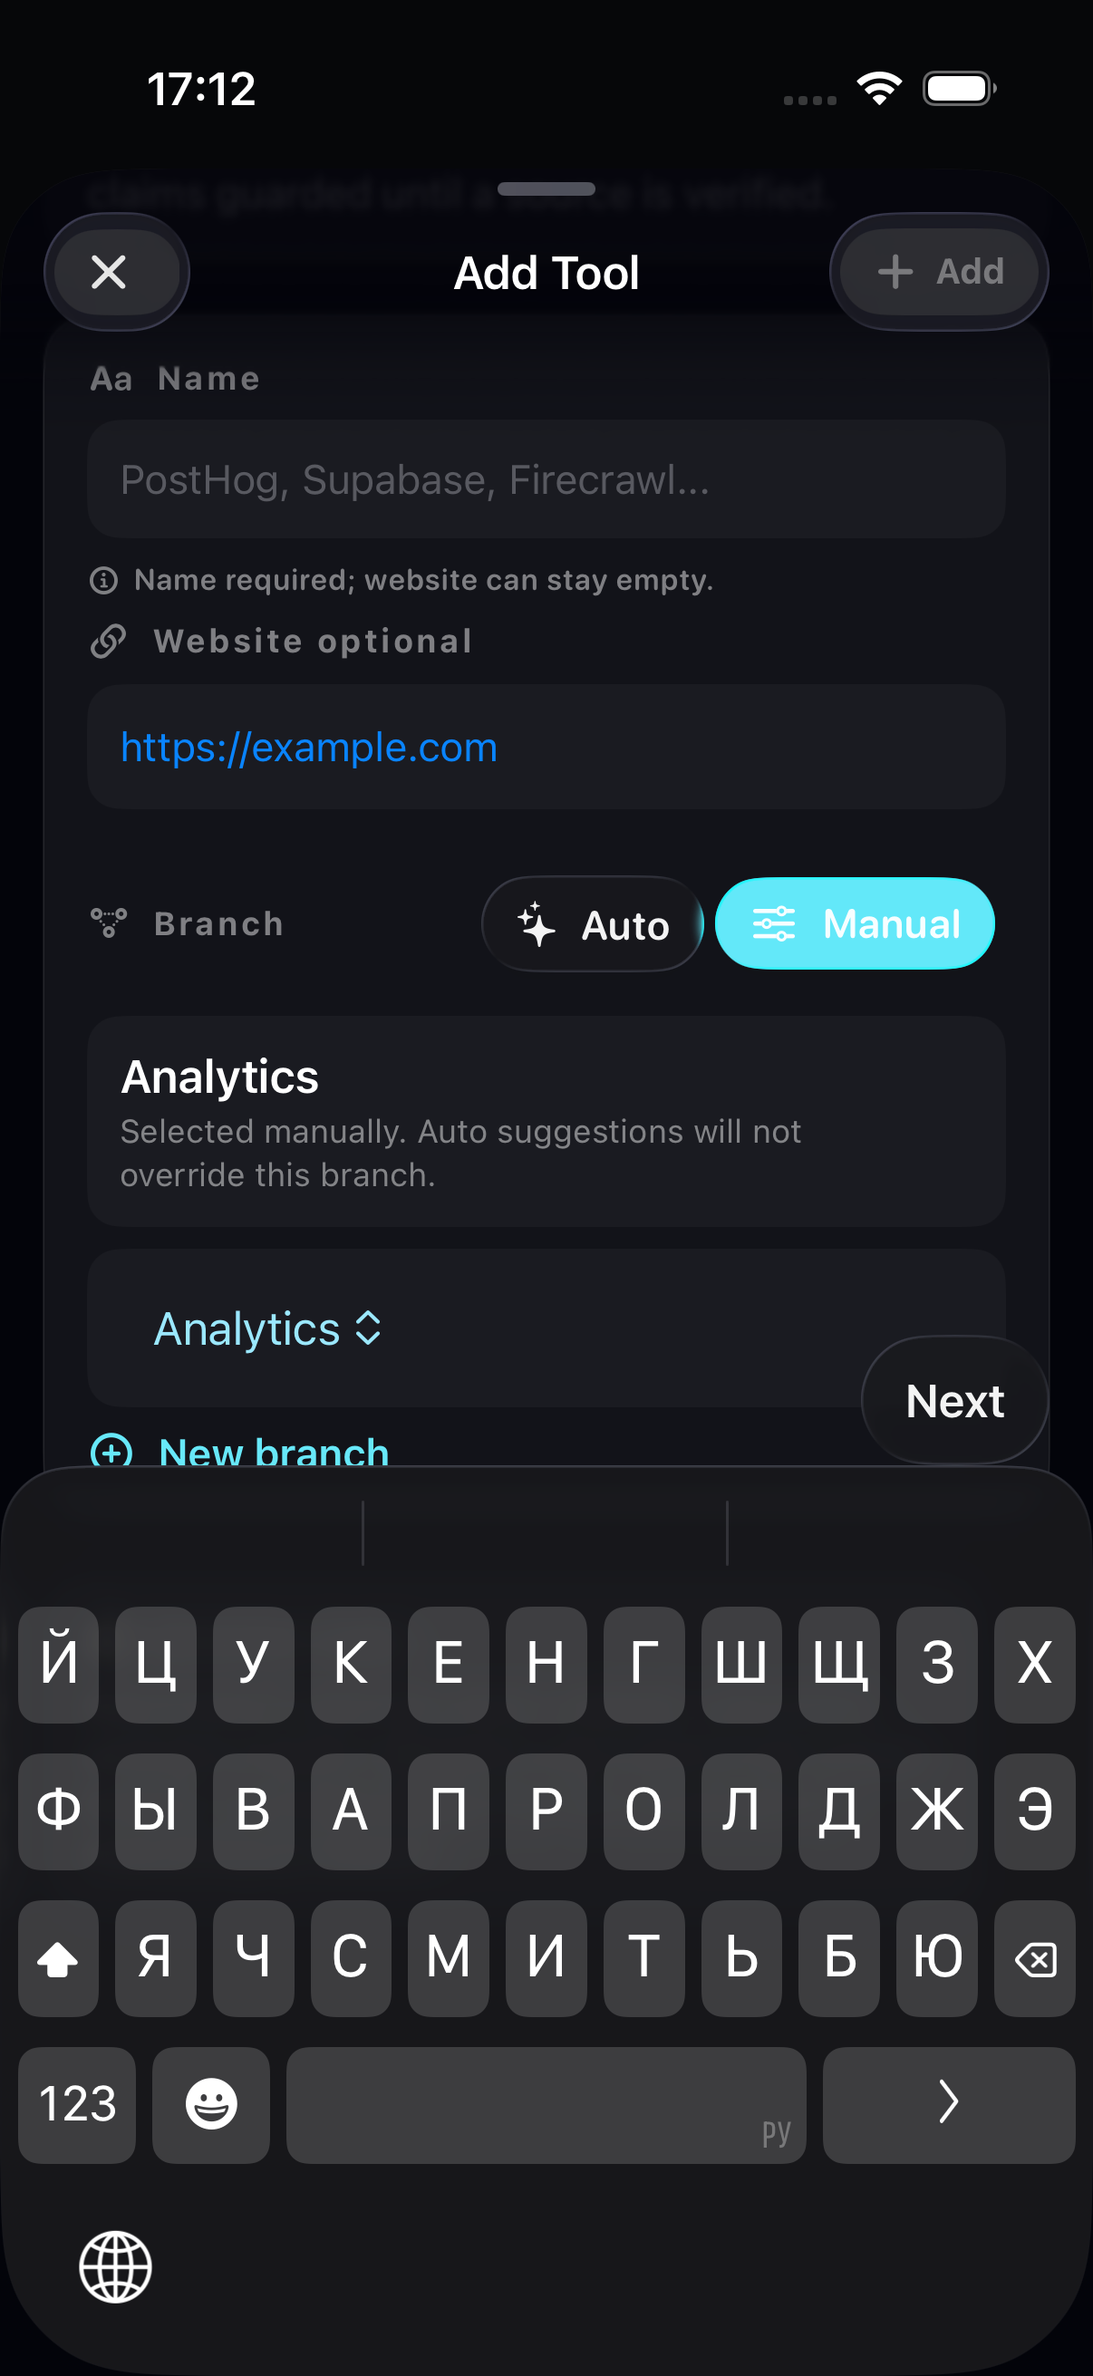
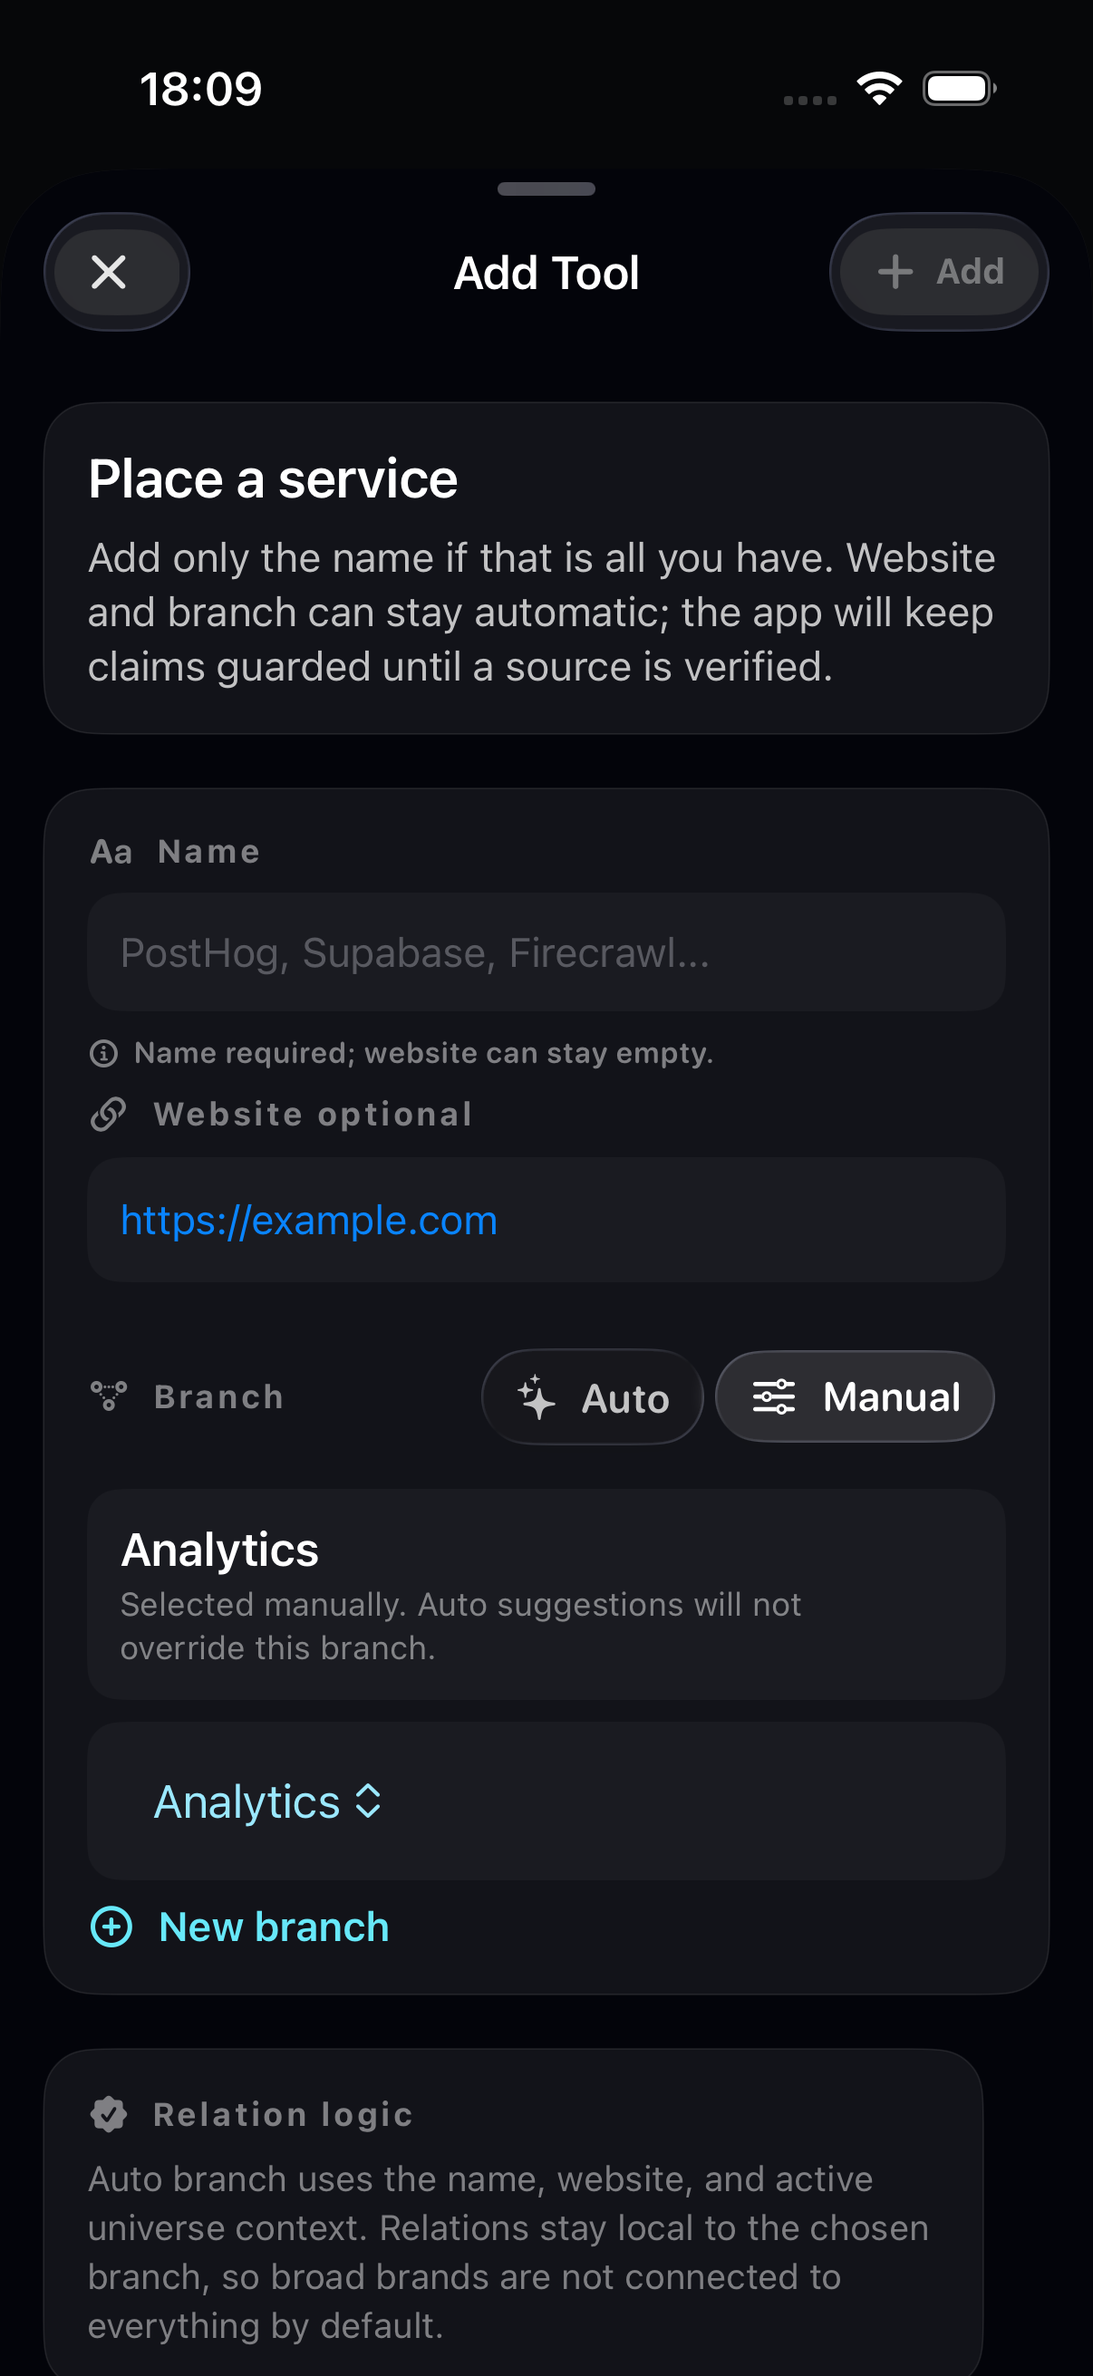
fix(ios): harden glass surface QA gates

diff --git a/ios-app/Tests/MyAIMapUITests/GlassSurfaceRealSurfaceUITests.swift b/ios-app/Tests/MyAIMapUITests/GlassSurfaceRealSurfaceUITests.swift
@@ -12,23 +12,48 @@ final class GlassSurfaceAddToolBranchModeUITests: XCTestCase {
 
         let addTool = app.buttons["chat-add-tool-button"]
         XCTAssertTrue(addTool.waitForExistence(timeout: 5), "Chat surface should expose Add Tool")
-        addTool.tap()
+        tapWhenHittable(addTool, name: "Chat Add Tool button")
 
         let auto = app.buttons["addTool.branchMode.0"]
         let manual = app.buttons["addTool.branchMode.1"]
         XCTAssertTrue(auto.waitForExistence(timeout: 5), "Add Tool sheet should expose Auto branch mode")
         XCTAssertTrue(manual.waitForExistence(timeout: 5), "Add Tool sheet should expose Manual branch mode")
-        reveal(manual, in: app)
+        XCTAssertTrue(reveal(manual, in: app), "Manual branch mode should be hittable after reveal")
 
         assertLegalHitTarget(auto, name: "Auto branch mode")
         assertLegalHitTarget(manual, name: "Manual branch mode")
         XCTAssertTrue(waitForSelection(auto, selected: true), "Auto should be selected by default")
         XCTAssertTrue(waitForSelection(manual, selected: false), "Manual should not be selected by default")
 
-        manual.tap()
+        tapWhenHittable(manual, name: "Manual branch mode")
         XCTAssertTrue(waitForSelection(manual, selected: true), "Tapping Manual should move selection")
         XCTAssertTrue(waitForSelection(auto, selected: false), "Auto should lose selection after Manual is tapped")
+        settle()
         snap("glass-surface-addtool-branch-mode")
+    }
+
+    @MainActor
+    func testBranchModeRemainsReachableWithNameKeyboardOpen() {
+        let app = launchOnboardingApp()
+        openEmptyChatFromOnboarding(app)
+
+        let addTool = app.buttons["chat-add-tool-button"]
+        XCTAssertTrue(addTool.waitForExistence(timeout: 5), "Chat surface should expose Add Tool")
+        tapWhenHittable(addTool, name: "Chat Add Tool button")
+
+        let nameField = app.textFields["addTool.nameField"]
+        XCTAssertTrue(nameField.waitForExistence(timeout: 5), "Add Tool sheet should expose the Name field")
+        tapWhenHittable(nameField, name: "Add Tool Name field")
+        nameField.typeText("PostHog")
+        XCTAssertTrue(app.keyboards.firstMatch.waitForExistence(timeout: 5), "Name focus should show the keyboard")
+
+        let auto = app.buttons["addTool.branchMode.0"]
+        let manual = app.buttons["addTool.branchMode.1"]
+        XCTAssertTrue(reveal(manual, in: app), "Branch mode should remain reachable with the keyboard open")
+        assertLegalHitTarget(auto, name: "Auto branch mode with keyboard")
+        assertLegalHitTarget(manual, name: "Manual branch mode with keyboard")
+        settle()
+        snap("glass-surface-addtool-keyboard")
     }
 }
 
@@ -44,7 +69,7 @@ final class GlassSurfaceAccountSectionUITests: XCTestCase {
 
         let account = app.buttons["ChatScreen.Account"]
         XCTAssertTrue(account.waitForExistence(timeout: 5), "Chat surface should expose Account")
-        account.tap()
+        tapWhenHittable(account, name: "Account button")
 
         let settings = app.buttons["account.section.0"]
         let history = app.buttons["account.section.1"]
@@ -56,9 +81,10 @@ final class GlassSurfaceAccountSectionUITests: XCTestCase {
         XCTAssertTrue(waitForSelection(settings, selected: true), "Settings should be selected by default")
         XCTAssertTrue(waitForSelection(history, selected: false), "History should not be selected by default")
 
-        history.tap()
+        tapWhenHittable(history, name: "History section")
         XCTAssertTrue(waitForSelection(history, selected: true), "Tapping History should move selection")
         XCTAssertTrue(waitForSelection(settings, selected: false), "Settings should lose selection after History is tapped")
+        settle()
         snap("glass-surface-settings-section")
     }
 }
@@ -79,13 +105,16 @@ final class GlassSurfaceOnboardingUITests: XCTestCase {
         let exploreMap = app.buttons["Onboarding.ExploreMap"]
         let skip = app.buttons["Onboarding.Skip"]
         XCTAssertTrue(skip.waitForExistence(timeout: 8), "-uitestOnboarding should force the first-run overlay")
+        XCTAssertFalse(app.buttons["RootShell.ShowChat"].exists, "Onboarding should suppress the root Ask AI/Map switch")
+        XCTAssertFalse(app.buttons["RootShell.ShowUniverse"].exists, "Onboarding should suppress the root Ask AI/Map switch")
         for element in [askAI, addTool, exploreMap, skip] {
             XCTAssertTrue(element.waitForExistence(timeout: 3), "\(element) should exist on onboarding")
             assertLegalHitTarget(element, name: element.identifier)
         }
 
+        settle()
         snap("glass-surface-onboarding")
-        skip.tap()
+        tapWhenHittable(skip, name: "Onboarding Skip")
         XCTAssertTrue(waitForNonExistence(app.buttons["Onboarding.Skip"]), "Skip should dismiss onboarding")
     }
 }
@@ -110,7 +139,7 @@ private func launchOnboardingApp() -> XCUIApplication {
 private func openEmptyChatFromOnboarding(_ app: XCUIApplication) {
     let askAI = app.buttons["Onboarding.AskAI"]
     XCTAssertTrue(askAI.waitForExistence(timeout: 20), "First-run overlay should expose Ask AI")
-    askAI.tap()
+    tapWhenHittable(askAI, name: "Onboarding Ask AI")
     XCTAssertTrue(
         app.textFields["chat-composer-field"].waitForExistence(timeout: 8),
         "Ask AI onboarding action should open chat with an empty composer"
@@ -122,7 +151,7 @@ private func openChat(_ app: XCUIApplication) {
     let showChat = app.buttons["RootShell.ShowChat"]
     XCTAssertTrue(showChat.waitForExistence(timeout: 8), "Map surface should expose Ask AI")
     if !showChat.isSelected {
-        showChat.tap()
+        tapWhenHittable(showChat, name: "Show Chat")
     }
     XCTAssertTrue(
         app.textFields["chat-composer-field"].waitForExistence(timeout: 8),
@@ -137,13 +166,40 @@ private func assertLegalHitTarget(
     file: StaticString = #filePath,
     line: UInt = #line
 ) {
+    XCTAssertTrue(element.exists, "\(name) should exist", file: file, line: line)
+    XCTAssertTrue(element.isHittable, "\(name) should be hittable", file: file, line: line)
     XCTAssertGreaterThanOrEqual(element.frame.width, 44, "\(name) width should be at least 44pt", file: file, line: line)
     XCTAssertGreaterThanOrEqual(element.frame.height, 44, "\(name) height should be at least 44pt", file: file, line: line)
+    XCTAssertFalse(element.label.trimmingCharacters(in: .whitespacesAndNewlines).isEmpty, "\(name) should expose an accessibility label", file: file, line: line)
 }
 
 @MainActor
-private func reveal(_ element: XCUIElement, in app: XCUIApplication) {
-    guard !element.isHittable else { return }
+private func tapWhenHittable(
+    _ element: XCUIElement,
+    name: String,
+    timeout: TimeInterval = 5,
+    file: StaticString = #filePath,
+    line: UInt = #line
+) {
+    XCTAssertTrue(waitForHittable(element, timeout: timeout), "\(name) should be hittable before tap", file: file, line: line)
+    element.tap()
+}
+
+@MainActor
+private func waitForHittable(_ element: XCUIElement, timeout: TimeInterval = 5) -> Bool {
+    let deadline = Date().addingTimeInterval(timeout)
+    repeat {
+        if element.exists, element.isHittable {
+            return true
+        }
+        RunLoop.current.run(until: Date().addingTimeInterval(0.1))
+    } while Date() < deadline
+    return element.exists && element.isHittable
+}
+
+@MainActor
+private func reveal(_ element: XCUIElement, in app: XCUIApplication) -> Bool {
+    guard !element.isHittable else { return true }
     let scrollView = app.scrollViews.firstMatch
     for _ in 0..<4 where !element.isHittable {
         if scrollView.exists {
@@ -153,6 +209,7 @@ private func reveal(_ element: XCUIElement, in app: XCUIApplication) {
         }
         RunLoop.current.run(until: Date().addingTimeInterval(0.25))
     }
+    return element.exists && element.isHittable
 }
 
 @MainActor
@@ -177,6 +234,11 @@ private func waitForNonExistence(_ element: XCUIElement, timeout: TimeInterval =
         RunLoop.current.run(until: Date().addingTimeInterval(0.1))
     } while Date() < deadline
     return !element.exists
+}
+
+@MainActor
+private func settle(_ duration: TimeInterval = 0.25) {
+    RunLoop.current.run(until: Date().addingTimeInterval(duration))
 }
 
 @MainActor

diff --git a/ios-app/Sources/MyAIMap/UI/Settings/AddToolSheet.swift b/ios-app/Sources/MyAIMap/UI/Settings/AddToolSheet.swift
@@ -312,6 +312,7 @@ struct AddToolSheet: View {
                     .submitLabel(.next)
                     .textInputAutocapitalization(.words)
                     .autocorrectionDisabled()
+                    .accessibilityIdentifier("addTool.nameField")
                     .onSubmit {
                         focusedField = .website
                     }
@@ -330,6 +331,7 @@ struct AddToolSheet: View {
                     .keyboardType(.URL)
                     .textInputAutocapitalization(.never)
                     .autocorrectionDisabled()
+                    .accessibilityIdentifier("addTool.websiteField")
                     .onSubmit {
                         if canAdd {
                             add()
@@ -353,9 +355,12 @@ struct AddToolSheet: View {
                         options: AddToolBranchMode.allCases,
                         selection: branchModeBinding,
                         base: "addTool.branchMode",
-                        tint: resolvedCategoryModel.color.swiftUIColor
-                    ) { mode, _ in
+                        accessibilityLabel: { mode, _ in
+                            "Select \(mode.title) branch mode"
+                        }
+                    ) { mode, isSelected in
                         Label(mode.title, systemImage: mode.icon)
+                            .foregroundStyle(isSelected ? BrandColor.textPrimary : BrandColor.textSecondary)
                     }
                 }
 
@@ -453,6 +458,7 @@ struct AddToolSheet: View {
                 let target = AddToolBranchMode.allCases[index]
                 guard branchMode != target else { return }
                 BrandHaptics.fire(.light)
+                focusedField = nil
                 withBrandAnimation(BrandMotion.nudge, reduceMotion: reduceMotion) {
                     branchMode = target
                 }

diff --git a/ios-app/Sources/MyAIMap/UI/Components/Glass/GlassMorphCluster.swift b/ios-app/Sources/MyAIMap/UI/Components/Glass/GlassMorphCluster.swift
@@ -18,6 +18,9 @@ struct GlassMorphCluster<Option: Identifiable, Label: View>: View {
     /// override to preserve pre-existing identifiers (e.g. a migrated control
     /// whose ids are already asserted by UI tests).
     var identifier: (Int) -> String = { _ in "" }
+    /// Optional VoiceOver label for controls whose visible text needs more
+    /// context than the slot title alone.
+    var accessibilityLabel: (Option, Bool) -> String? = { _, _ in nil }
     @ViewBuilder let label: (Option, Bool) -> Label
 
     @Namespace private var ns
@@ -50,6 +53,7 @@ struct GlassMorphCluster<Option: Identifiable, Label: View>: View {
                     )
                     .hitArea()
                     .accessibilityIdentifier({ let id = identifier(index); return id.isEmpty ? "\(base).\(index)" : id }())
+                    .modifier(OptionalAccessibilityLabel(label: accessibilityLabel(option, isSelected)))
                     .accessibilityAddTraits(isSelected ? .isSelected : [])
                 }
             }
@@ -63,6 +67,19 @@ struct GlassMorphCluster<Option: Identifiable, Label: View>: View {
             GlassEffectContainer(spacing: spacing) { content() }
         } else {
             content()
+        }
+    }
+}
+
+private struct OptionalAccessibilityLabel: ViewModifier {
+    let label: String?
+
+    @ViewBuilder
+    func body(content: Content) -> some View {
+        if let label {
+            content.accessibilityLabel(Text(label))
+        } else {
+            content
         }
     }
 }

diff --git a/ios-app/Sources/MyAIMap/Universe/UniverseMapView.swift b/ios-app/Sources/MyAIMap/Universe/UniverseMapView.swift
@@ -3,6 +3,7 @@ import UIKit
 
 /// Production-style native 3D universe map: RealityKit scene + SwiftUI glass UI.
 struct UniverseMapView: View {
+    private let onShowChat: (() -> Void)?
     @Environment(UniverseViewModel.self) private var model
     @Environment(\.accessibilityReduceMotion) private var reduceMotion
     @Environment(\.horizontalSizeClass) private var hSizeClass
@@ -20,6 +21,10 @@ struct UniverseMapView: View {
     @State private var addToolDraft: MissingToolSuggestion?
 
     @State private var planets: [PlanetData] = []
+
+    init(onShowChat: (() -> Void)? = nil) {
+        self.onShowChat = onShowChat
+    }
 
     /// Read alias for the single source of truth. All writes go to
     /// `model.universeMode`; the view never stores a second copy of the mode
@@ -97,6 +102,7 @@ struct UniverseMapView: View {
                 onToolSelect: focusToolFromMap,
                 onOpenToolDetail: openToolDetailFromChat,
                 onChatActivityChange: setChatOpen,
+                onShowChat: requestChatSurface,
                 onDetails: presentDetail,
                 onAccount: presentAccount,
                 onAddTool: { presentAddTool() },
@@ -388,6 +394,14 @@ struct UniverseMapView: View {
             )
         } else if mode.isChatOpen {
             restoreNavigationMode(animated: true)
+        }
+    }
+
+    private func requestChatSurface() {
+        if let onShowChat {
+            onShowChat()
+        } else {
+            setChatOpen(true)
         }
     }
 

diff --git a/ios-app/Sources/MyAIMap/RootShell.swift b/ios-app/Sources/MyAIMap/RootShell.swift
@@ -159,7 +159,7 @@ struct RootShell: View {
                 .transition(diveTransition)
 
             case .universe:
-                UniverseScreen()
+                UniverseScreen(onShowChat: showChat)
                     .transition(diveTransition)
             }
         }
@@ -179,7 +179,9 @@ struct RootShell: View {
             seatToolGhostIfReady()
         }
         .safeAreaInset(edge: .top, spacing: 0) {
-            surfaceSwitchChrome
+            if !RootFirstRun.showsOnboarding(hasSeenOnboarding: model.hasSeenOnboarding) {
+                surfaceSwitchChrome
+            }
         }
         .preferredColorScheme(.dark)
         .brandAnimation(BrandMotion.morph, value: surface)
@@ -565,7 +567,10 @@ struct RootSurfaceSwitch: View {
             selection: selectionBinding,
             base: "RootShell.Surface",
             spacing: BrandSpacing.xs.value,
-            identifier: { $0 == 0 ? "RootShell.ShowChat" : "RootShell.ShowUniverse" }
+            identifier: { $0 == 0 ? "RootShell.ShowChat" : "RootShell.ShowUniverse" },
+            accessibilityLabel: { option, _ in
+                option.id == 0 ? "Open Ask AI" : "Open universe map, \(toolCount) tools"
+            }
         ) { option, _ in
             HStack(spacing: BrandSpacing.s.value) {
                 Image(systemName: option.icon).font(.system(size: 13, weight: .bold))

diff --git a/ios-app/Sources/MyAIMap/Universe/UniverseOverlayView.swift b/ios-app/Sources/MyAIMap/Universe/UniverseOverlayView.swift
@@ -14,6 +14,7 @@ struct UniverseOverlayView: View {
     let onToolSelect: (String) -> Void
     let onOpenToolDetail: (String) -> Void
     let onChatActivityChange: (Bool) -> Void
+    let onShowChat: () -> Void
     let onDetails: () -> Void
     let onAccount: () -> Void
     let onAddTool: () -> Void
@@ -587,7 +588,10 @@ struct UniverseOverlayView: View {
                 RenderModeOption(id: 1, title: "3D Spatial", icon: "cube.transparent"),
             ],
             selection: renderModeBinding,
-            base: "universe.renderMode"
+            base: "universe.renderMode",
+            accessibilityLabel: { option, _ in
+                "Switch to \(option.title) visualization"
+            }
         ) { option, isSelected in
             HStack(spacing: BrandSpacing.xs.value) {
                 Image(systemName: option.icon).font(.system(size: 11, weight: .bold))
@@ -750,7 +754,7 @@ struct UniverseOverlayView: View {
 
                 Button {
                     BrandHaptics.fire(.light)
-                    onChatActivityChange(true)
+                    onShowChat()
                 } label: {
                     Label("Ask AI", systemImage: "sparkle")
                         .font(.callout.weight(.medium))

diff --git a/ios-app/Sources/MyAIMap/UI/Settings/AccountSettingsSheet.swift b/ios-app/Sources/MyAIMap/UI/Settings/AccountSettingsSheet.swift
@@ -31,9 +31,12 @@ struct AccountSettingsSheet: View {
                         options: AccountSection.allCases,
                         selection: sectionBinding,
                         base: "account.section",
-                        tint: model.selectedCategoryModel.color.swiftUIColor
-                    ) { section, _ in
+                        accessibilityLabel: { section, _ in
+                            "Account section, \(section.title)"
+                        }
+                    ) { section, isSelected in
                         Text(section.title)
+                            .foregroundStyle(isSelected ? BrandColor.textPrimary : BrandColor.textSecondary)
                     }
 
                     switch section {

diff --git a/ios-app/Sources/MyAIMap/Universe/UniverseScreen.swift b/ios-app/Sources/MyAIMap/Universe/UniverseScreen.swift
@@ -5,8 +5,10 @@ import SwiftUI
 /// The production prototype now lives in `UniverseMapView`: native RealityKit
 /// scene for the 3D universe, SwiftUI for the glass overlay and sheets.
 struct UniverseScreen: View {
+    var onShowChat: () -> Void = {}
+
     var body: some View {
-        UniverseMapView()
+        UniverseMapView(onShowChat: onShowChat)
     }
 }
 

diff --git a/docs/design/README.md b/docs/design/README.md
@@ -49,6 +49,10 @@ Current repo screenshots:
 - `screenshots/ai-tool-universe-design-cluster.png`
 - `screenshots/vercel-camera-drag-compact-panel.png`
 - `screenshots/vercel-large-logo-badges.png`
+- `screenshots/glass-surface-xcuitests/onboarding.png`
+- `screenshots/glass-surface-xcuitests/addtool-branch-mode.png`
+- `screenshots/glass-surface-xcuitests/addtool-keyboard.png`
+- `screenshots/glass-surface-xcuitests/settings-section.png`
 
 ## Design QA Rubric
 
@@ -146,4 +150,3 @@ Apply to My AI Map:
 Do not copy:
 - What to avoid.
 ```
-
